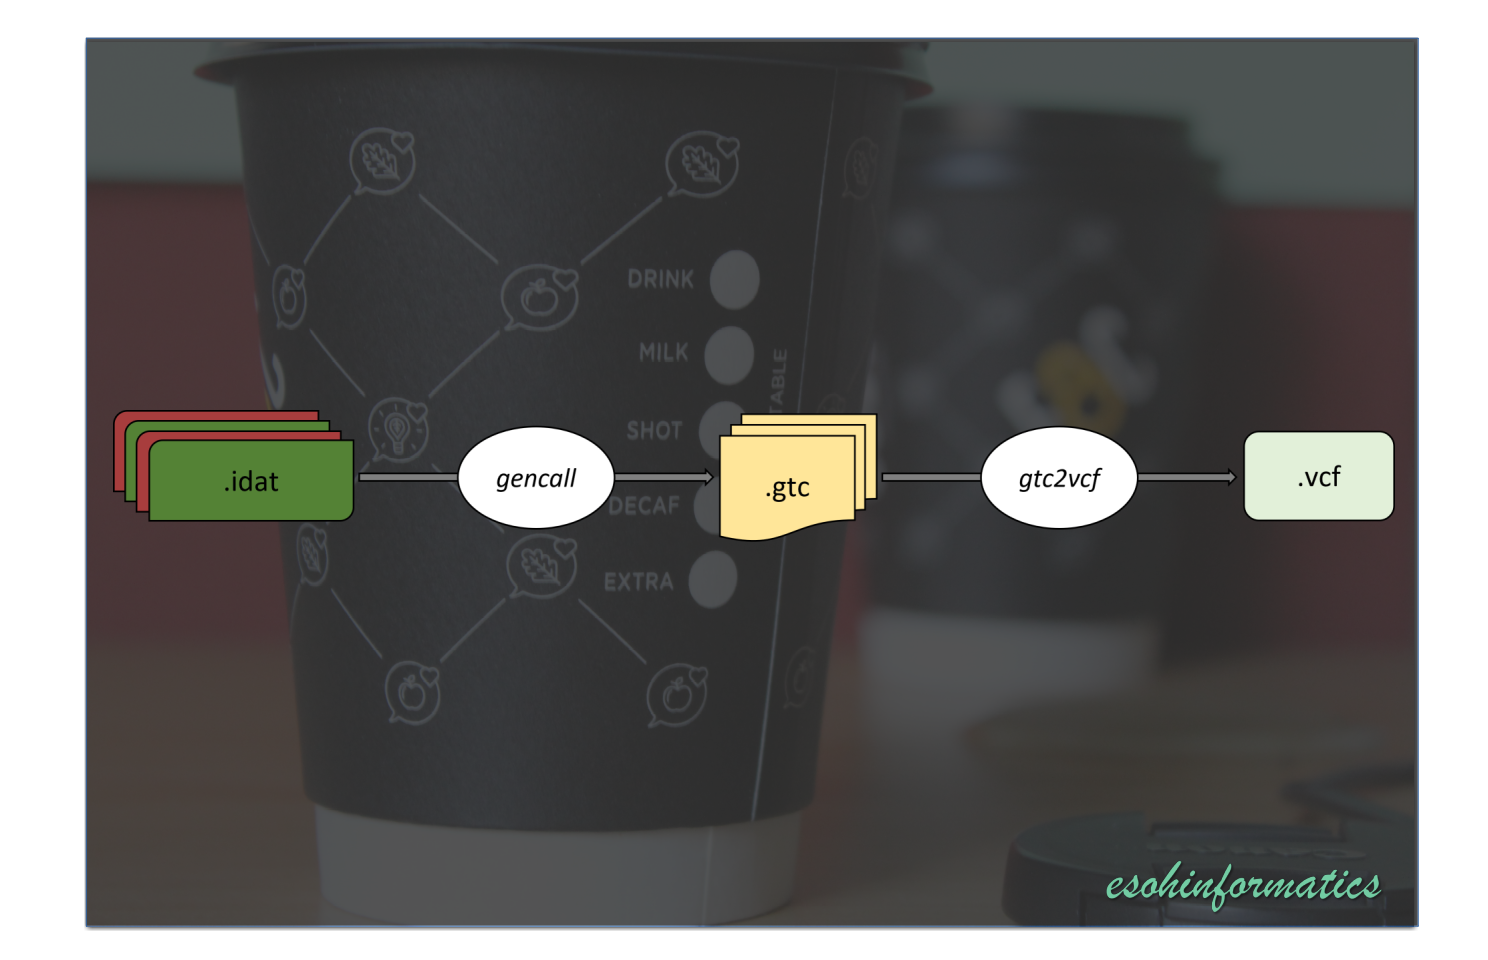
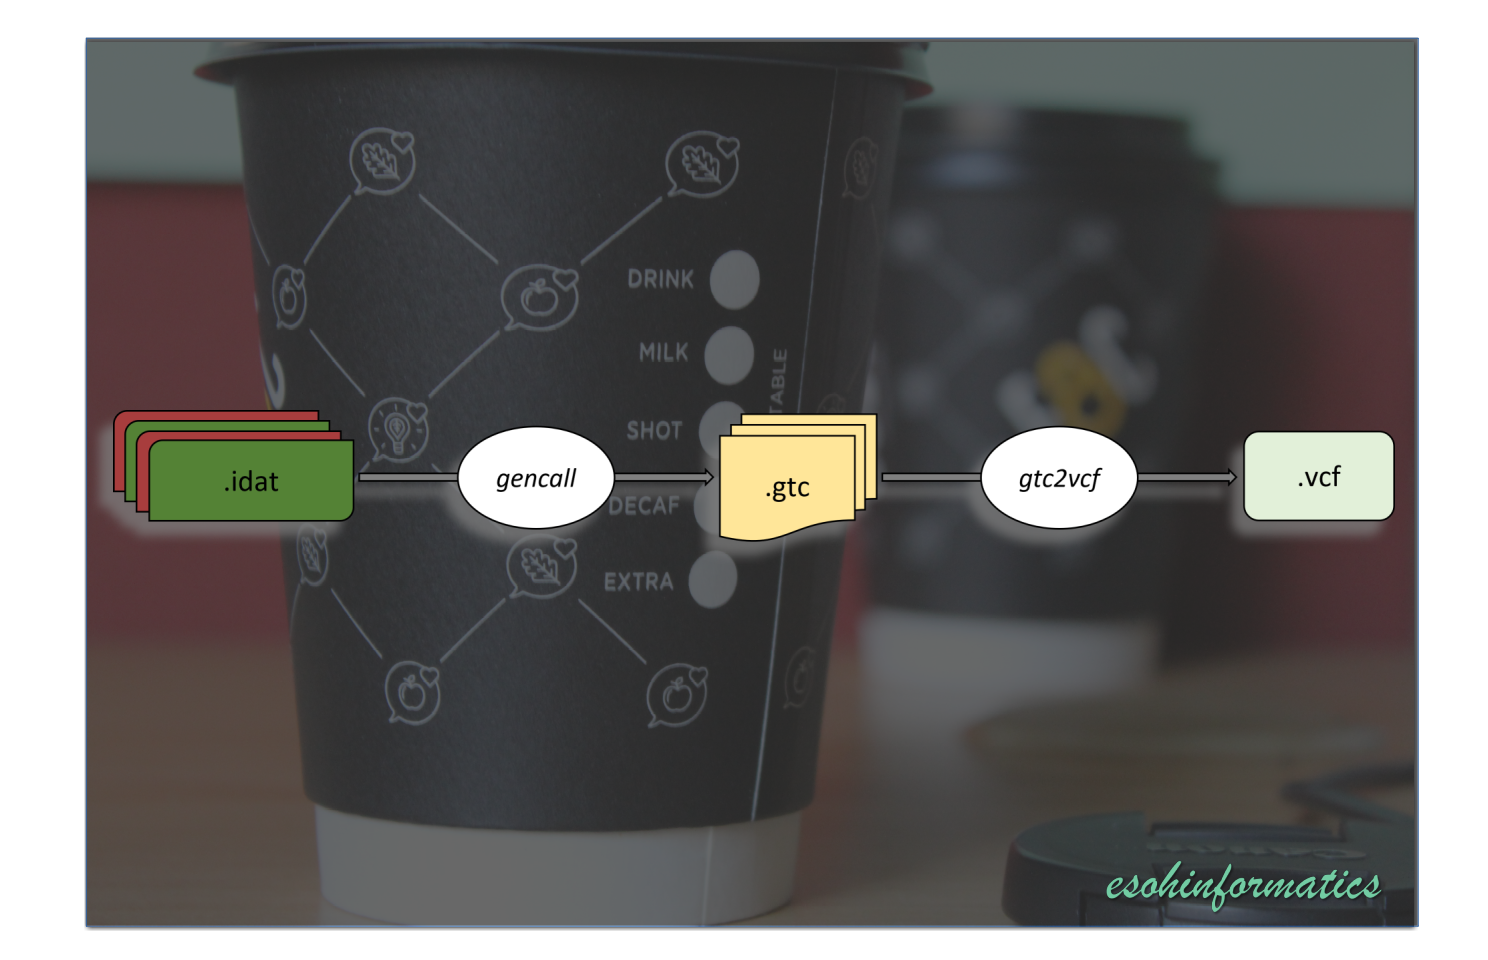
edit

diff --git a/docs/tutorials/convert-idat-to-vcf.md b/docs/tutorials/convert-idat-to-vcf.md
@@ -6,7 +6,7 @@ layout: pages
 *Posted: November 19, 2022*
 
 <p align="center">
-  <img src="/assets/img/gtc2vcf_flow_diagram.png" alt="F&C coffee cups" width="80%">
+  <img src="/assets/img/gtc2vcf_flow_diagram.png" alt="F&C coffee cups" width="90%">
 </p>
 
 ## Content
